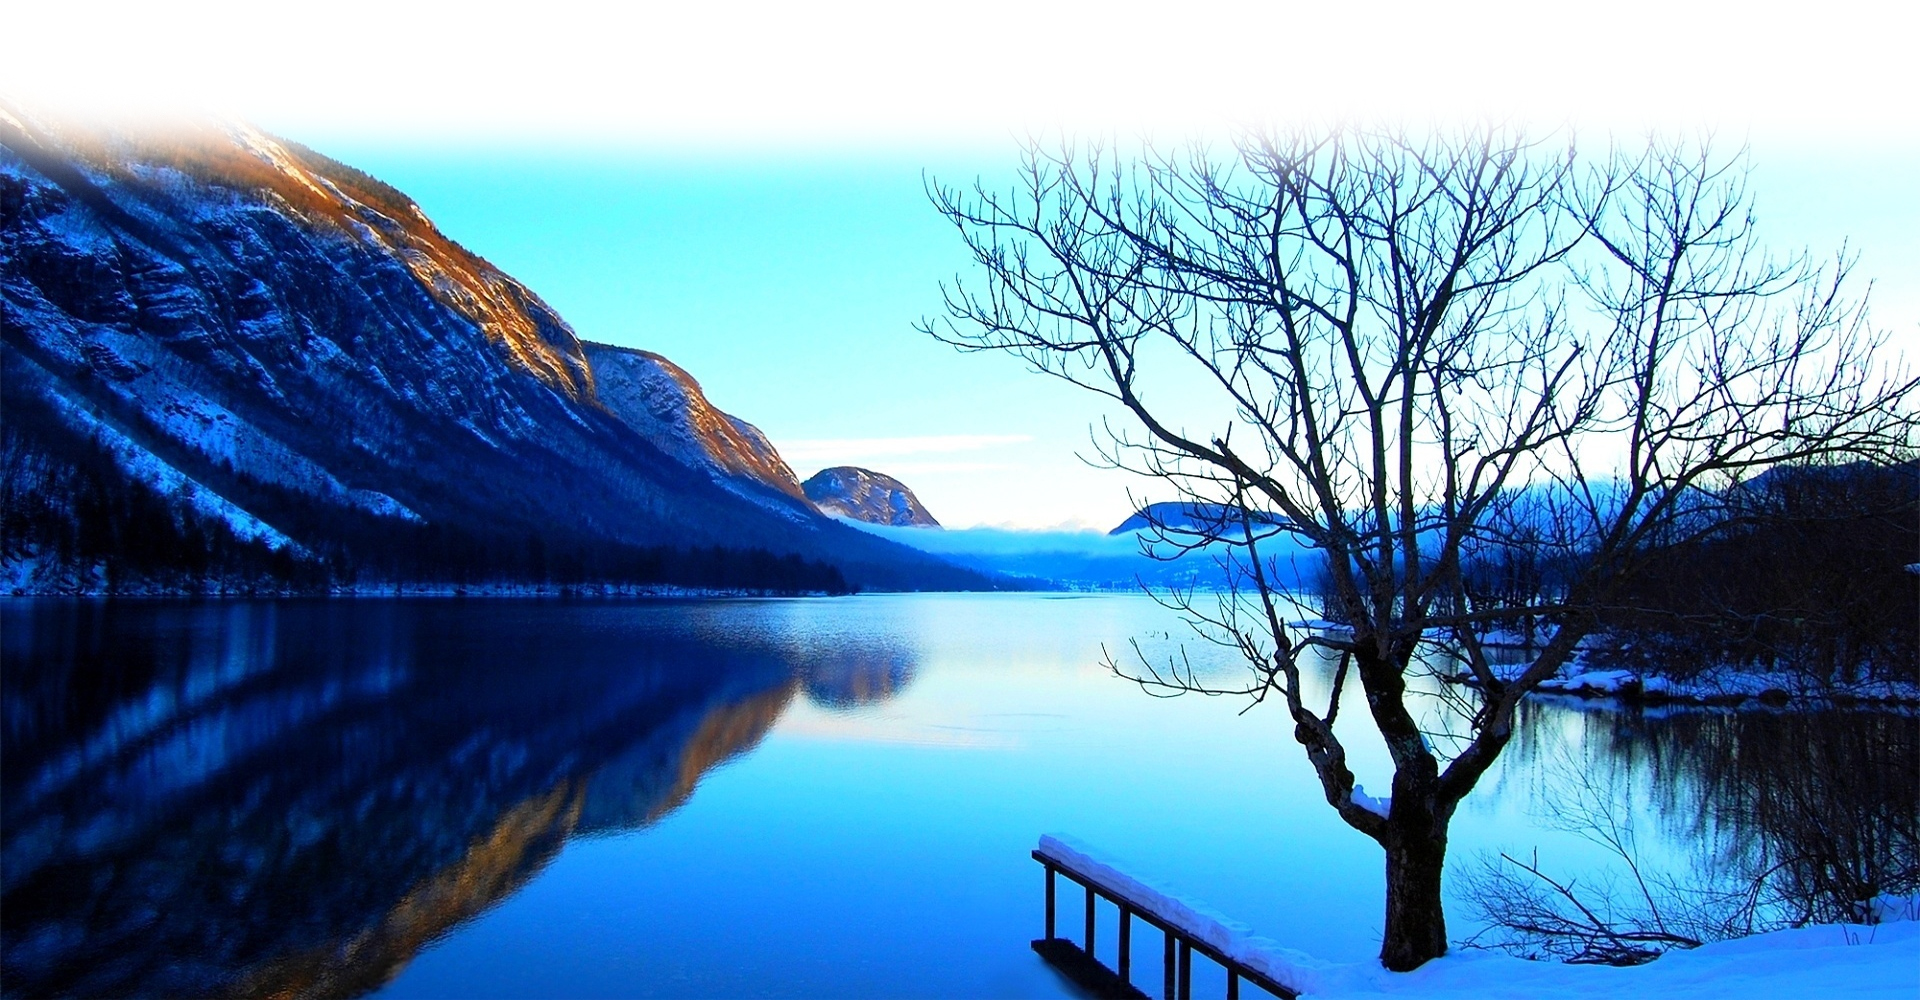
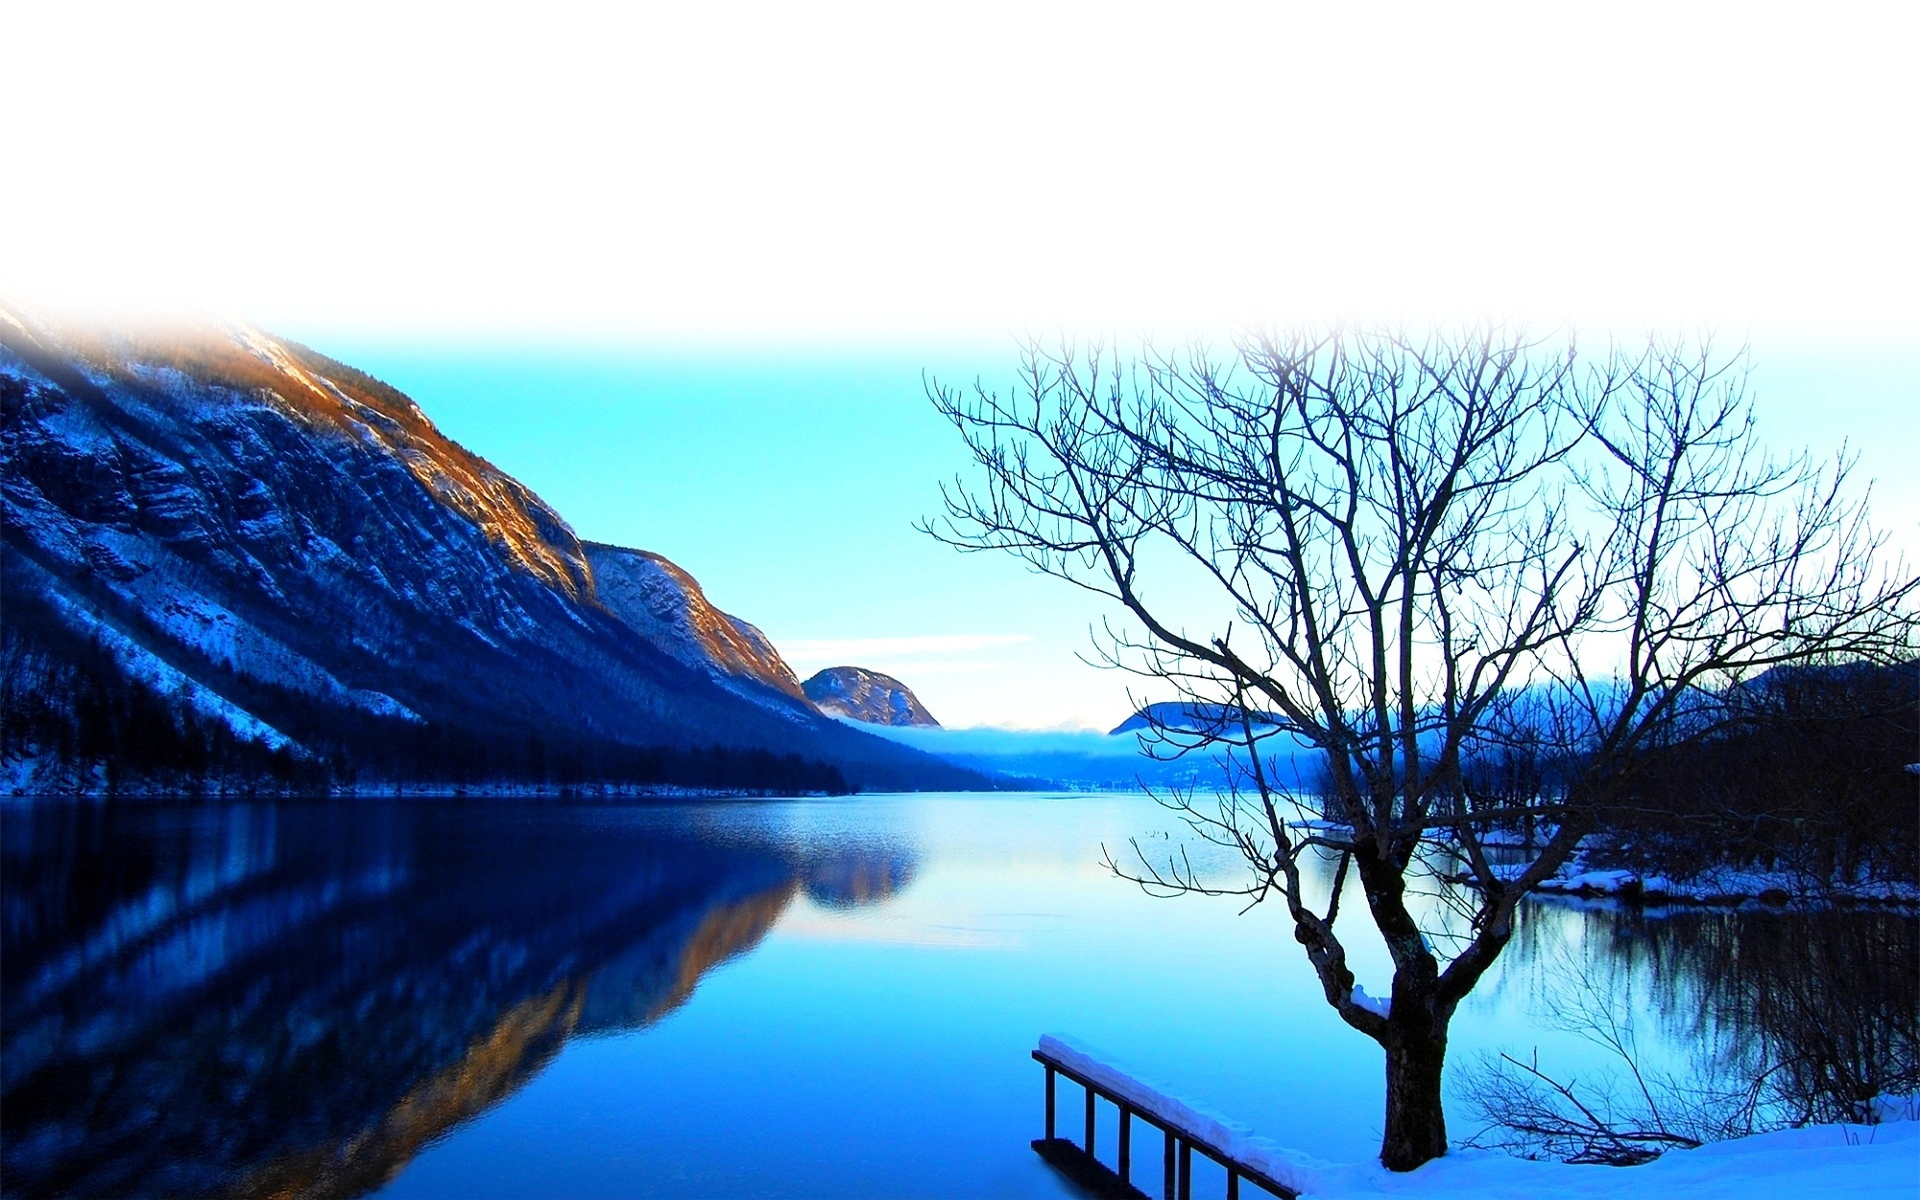
fix bugs

diff --git a/css/main.css b/css/main.css
@@ -90,7 +90,7 @@ h6 {
 }
 
 
-@media (max-width: 900px) {
+@media (max-width: 960px) {
 	.header-inner > ul {
 		display: none;
 	}
@@ -98,6 +98,13 @@ h6 {
 		display: none;
 	}
 }
+
+@media (max-width: 1300px) {
+	.about .img2 > img {
+		width: 438px;
+	}
+}
+
 
 .header {
 	float: left;
@@ -153,6 +160,7 @@ h6 {
 	min-height: calc(100vh - 80px);
 	background: white;
 	float: left;
+	min-width: 960px; 
 	
 }
 
@@ -169,7 +177,7 @@ h6 {
 
 .content-block {
 	width: 100%;
-	max-width: 960px;
+	max-width: 960px; 
 	margin: 0 auto;
 	padding: 0;
 }
@@ -185,7 +193,7 @@ h6 {
 	border: 4px solid white;
 	position: absolute;
 	margin-top: 110px;
-	padding: 130px 660px 130px 0px;
+	padding: 130px 620px 130px 0px;
 	float: left;
 }
 
@@ -281,16 +289,16 @@ h6 {
 }
 
 .about > .img1 > img {
-	height: 250px;
-	width: 300px;
-	margin: 0px 0 150px 480px;
+	height: 290px;
+	width: 270px;
+	margin: -60px 0 0px 400px;
 	position: absolute;
 }
 
 .about > .img2 > img {
 	height: 450px;
-	width: 600px;
-	margin: -260px 0px 0px 620px;
+	
+	margin: -260px 0px 0px 520px;
 	position: inherit;
 }
 
@@ -424,13 +432,7 @@ p .text {
 	width: 750px;
 	margin-top: 30px;
 }
-.slash {
-	margin-top: 5px;
-	margin-left: 330px;
-	font-size: 35px;
-	color: #d2d2d2;
-	position: absolute;
-}
+
 .search-block input[type="submit"] {
 	position: absolute;
 	font-weight: bold;

diff --git a/index.html b/index.html
@@ -48,7 +48,7 @@
 						<p class="text">Lorem ipsum dolor sit amet, consectetur adipisicing elit, sed do eiusmod tempor incididunt ut labore et dolore magna aliqua. Ut enim ad minim veniam incididunt ut labore et dolore magna aliqua. Ut enim ad minim veniam.incididunt ut labore et dolore magna aliqua. Ut enim ad minim.</p>
 						<a href="" class="button">READ MORE</a>
 						<div class="img1"><img src="./img/about/about-block2.jpg"></div>
-						<div class="img2"><img src="./img/about/about-block3.jpg"></div>
+						<div class="img2" id="test"><img src="./img/about/about-block3.jpg"></div>
 
 					</div>
 				</div>
